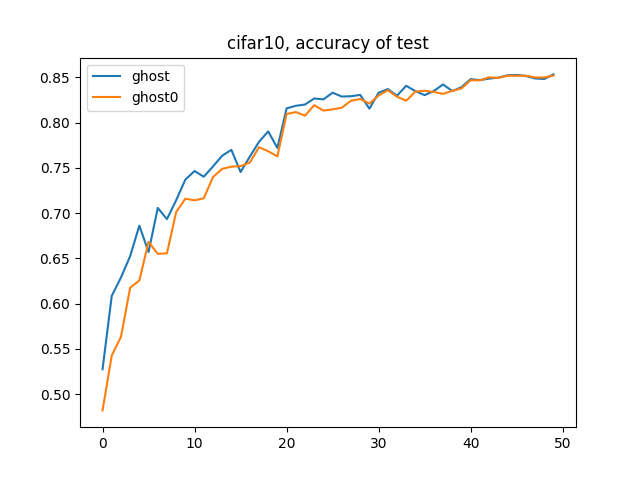
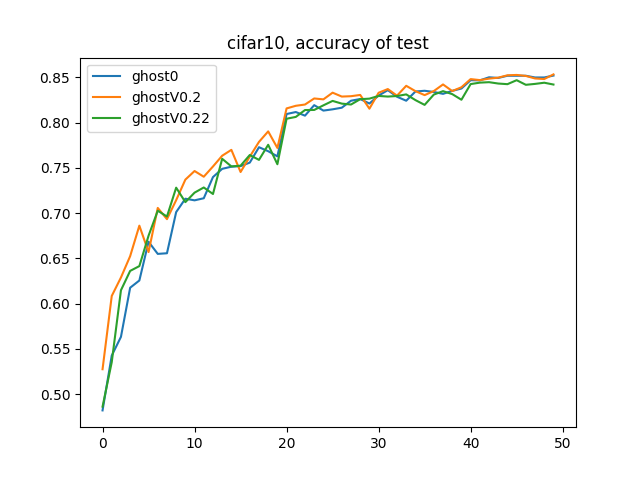
ghostV0.22

Changed region(s): [[0.1562, 0.1562, 0.875, 0.8438], [0.125, 0.1875, 0.3438, 0.2812]]

diff --git a/ghost.py b/ghost.py
@@ -106,12 +106,12 @@ class GhostModule(nn.Module):
         return out[:,:self.oup,:,:]
 
 
-class GhostBottleneck(nn.Module):
+class GhostBottleneckV02(nn.Module):
     """ Ghost bottleneck w/ optional SE"""
 
     def __init__(self, in_chs, mid_chs, out_chs, group=4, dw_kernel_size=3,
                  stride=1, padding=1, act_layer=nn.ReLU, se_ratio=0.):
-        super(GhostBottleneck, self).__init__()
+        super(GhostBottleneckV02, self).__init__()
         has_se = se_ratio is not None and se_ratio > 0.
         self.stride = stride
         self.group = group
@@ -136,6 +136,7 @@ class GhostBottleneck(nn.Module):
         else:
             self.se = None
 
+
         # Point-wise linear projection
         self.ghost2 = GhostModule(mid_chs, out_chs, padding=1, relu=False)
 
@@ -144,8 +145,6 @@ class GhostBottleneck(nn.Module):
             self.shortcut = nn.Sequential()
         else:
             self.shortcut = nn.Sequential(
-                # nn.Conv2d(in_chs, in_chs, dw_kernel_size, stride=stride,
-                #           padding=(dw_kernel_size - 1) // 2, groups=in_chs, bias=False),
                 nn.Conv2d(in_chs, in_chs, dw_kernel_size, stride=stride,
                                        padding=padding,
                                        groups=self.group, bias=False),
@@ -168,9 +167,55 @@ class GhostBottleneck(nn.Module):
         if self.se is not None:
             x = self.se(x)
         # 2nd ghost bottleneck
+        # x = channel_shuffle(x, self.group)
         x = self.ghost2(x)
         x += self.shortcut(residual)
         return x
+
+class GhostModuleV022(GhostModule):
+    def __init__(self, inp, oup, kernel_size=3, ratio=2, dw_size=3, stride=1, padding=1, relu=True):
+        super().__init__(inp, oup, kernel_size, ratio, dw_size, stride, padding, relu)
+        self.oup = oup
+        init_channels = math.ceil(oup / ratio)
+        new_channels = init_channels*(ratio-1)
+        self.cheap_operation = nn.Sequential(
+            nn.Conv2d(init_channels, new_channels, 1, 1, padding=0, groups=init_channels, bias=False),
+            nn.BatchNorm2d(new_channels),
+            nn.ReLU(inplace=True) if relu else nn.Sequential(),
+        )
+
+
+class GhostBottleneckV022(GhostBottleneckV02):
+    def __init__(self, in_chs, mid_chs, out_chs, group=4, dw_kernel_size=3,
+                 stride=1, padding=1, act_layer=nn.ReLU, se_ratio=0.):
+        super(GhostBottleneckV022, self).__init__(in_chs, mid_chs, out_chs, group, dw_kernel_size,
+                 stride, padding, act_layer, se_ratio)
+
+        self.conv1 = nn.Conv2d(in_chs, in_chs, dw_kernel_size, stride=1, \
+                               padding=1, \
+                               groups=self.group, bias=False)
+        self.se = SqueezeExcite(mid_chs, se_ratio=se_ratio)
+        self.ghost1 = GhostModuleV022(in_chs, mid_chs, padding=padding, relu=True)
+        self.ghost2 = GhostModuleV022(mid_chs, out_chs, padding=1, relu=True)
+
+    def forward(self, x):
+        x = channel_shuffle(x, self.group)
+        residual = x
+        # 1st ghost bottleneck
+        x = self.conv1(x)
+        x = self.ghost1(x)
+        # Depth-wise convolution
+        # Squeeze-and-excitation
+        # x = self.se(x)
+        # 2nd ghost bottleneck
+        # x = channel_shuffle(x, self.group)
+        x = self.ghost2(x)
+        x += self.shortcut(residual)
+        return x
+
+
+
+
 
 '''
 class GhostNet(nn.Module):

diff --git a/ghostNet_cifar10.py b/ghostNet_cifar10.py
@@ -55,7 +55,7 @@ class GhostNet(nn.Module):
             for k, exp_size, c, se_ratio, s, g, p in cfg:
                 output_channel = c
                 hidden_channel = exp_size
-                layers.append(GhostBottleneck(input_channel, hidden_channel, output_channel, group=g, dw_kernel_size=k,
+                layers.append(GhostBottleneckV022(input_channel, hidden_channel, output_channel, group=g, dw_kernel_size=k,
                                               stride=s, padding=p, se_ratio=se_ratio))
                 input_channel = output_channel
             stages.append(nn.Sequential(*layers))
@@ -80,9 +80,50 @@ class GhostNet(nn.Module):
         x = self.classifier(x)
         return x
 
+
+class GhostNetV022(GhostNet):
+    def __init__(self):
+        super().__init__()
+        input_channel = 8
+        self.cfgs = [
+            [[3, 24, 16, 0, 1, 4, 0]],
+            [[3, 48, 32, 0.25, 1, 4, 0]],
+            [[3, 64, 48, 0, 1, 4, 0]],
+            [[3, 72, 64, 0.25, 1, 4, 0]],
+            [[3, 120, 72, 0, 1, 4, 0]],
+            [[3, 240, 80, 0, 1, 8, 0]],
+            [[3, 240, 80, 0.25, 1, 8, 1],
+             [3, 240, 80, 0, 1, 8, 1],
+             [3, 240, 112, 0, 1, 8, 0]],
+            [[3, 480, 160, 0.25, 1, 16, 0],
+             [3, 480, 160, 0, 1, 16, 1],
+             [3, 480, 160, 0, 1, 16, 1]]
+        ]
+        stages = []
+        for cfg in self.cfgs:
+            layers = []
+            for k, exp_size, c, se_ratio, s, g, p in cfg:
+                output_channel = c
+                hidden_channel = exp_size
+                layers.append(GhostBottleneckV022(input_channel, hidden_channel, output_channel, group=g, dw_kernel_size=k,
+                                                  stride=s, padding=p, se_ratio=se_ratio))
+                input_channel = output_channel
+            stages.append(nn.Sequential(*layers))
+        stages.append(nn.Sequential(LastConvLayer(input_channel, 480, 1, groups=16)))
+        self.blocks = nn.Sequential(*stages)
+
+        # Last Several Layers
+        self.global_pool = nn.AdaptiveAvgPool2d((4, 4))
+        # self.global_pool = nn.AvgPool2d(8)
+        # self.conv_last = nn.Conv2d(480, 640, 1, 1, 0, bias=True)
+        # self.act_last = nn.ReLU(inplace=True)
+        self.classifier = nn.Linear(7680, 10)
+
+
+
 if __name__ == '__main__':
     device = torch.device('cuda' if torch.cuda.is_available() else 'cpu')
-    model = GhostNet().to(device)
+    model = GhostNetV022().to(device)
     summary(model, (3, 28, 28))
 
 

diff --git a/README.md b/README.md
@@ -27,10 +27,10 @@ Inp ---> GM1 --> GM2 --------------------------+--> Out
 ```
 新结构:
 ```
-Inp ---> CS --> GC --> GM1 --> GM2 ----------+--> Out
-     |                                       |
-     |shortcut                               |
-     |-----> GC --> BN --> conv1x1 --> BN ---|
+Inp --> CS ---> GC --> GM1 --> GM2 -----------------+--> Out
+            |                                       |
+            |shortcut                               |
+            |-----> GC --> BN --> conv1x1 --> BN ---|
      
 Inp: input, CS: channel shuffle, GC: group conv, GM: GhostModule
 ```
@@ -54,8 +54,16 @@ layers = nn.Sequential(*layers)
 
 Github Commit: ghostV0.2
 
+实现: 
+
+```
+ghost.py
+  |- GhostModule
+  |- GhostBottleneckV02
+```
+
 改动: 
- - 原先的结构默认几乎所有的padding=1, 通过stride=2做downsampling. 
+ - **增加padding**. 原先的结构默认几乎所有的padding=1, 通过stride=2做downsampling. 
 
    ```
    GhostBottleneck(....)
@@ -116,17 +124,66 @@ Github Commit: ghostV0.2
   layers.append(GhostBottleneck(blockInfo2))
   layers = nn.Sequential(*layers)
   ```
+  
 - `ghostNet`在`cifar10`中的使用
 
   - `python ghostNet_cifar10.py`即可打印结构, `ghostNet0_cifar10.py`为原ghost结构(记为ghost0)
+- `sh run.sh`
+  
 
-  - `sh run.sh`
+
+
+### Version 0.22
+时间: 2020.11.13 14:56
+
+Github Commit: ghostV0.22
+
+实现: 
+
+```
+ghost.py
+  |- GhostModuleV022
+  |- GhostBottleneckV022
+```
+
+改动: 
+```
+GhostBottleneck(...., padding=padding, group=group)
+  |-- Conv2d: padding=1, 3x3, group=group
+  |-- GhostModule: padding=padding
+           |-- Conv2d: padding=padding, 3x3, 
+           |-- ....
+           |-- Conv2d: padding=0, 1x1, group=all
+           |-- ....
+  |-- GhostModule: padding=1
+           |-- Conv2d: padding=1, 3x3, 
+           |-- ....
+           |-- Conv2d: padding=0, 1x1, group=all
+           |-- ....
+  |-- Shortcut: 
+           |-- Conv2d: padding=padding, 3x3, group=group
+           |-- ....
+           |-- Conv2d: padding=0, 1x1
+```
+
+ - 创建可用于`cifar-10`训练的ghostNet, 位于`./ghostNet_cifar10.py`
+
+ - 新增原ghost的模型`ghost0.py`, `ghostNet0_cifar10.py`, `ghost0_train.py`
+
+#### Usage
+
+- 与`Version0.2`一样
+
+
+
+## Version Comparison
 
   - Result: 
 
-    |        | Trainable params | Params size (MB) | Accuracy | s/iter (batchSize=16) |
-    | ------ | ---------------- | ---------------- | -------- | --------------------- |
-    | ghost0 | 3,271,594        | 12.48            | 85.20    | 0.0510                |
-    | ghost  | 3,102,970        | 11.84            | 85.33    | 0.0638                |
-
+    |            | Trainable params | Params size (MB) | Accuracy | s/iter (batchSize=16) |
+    | ---------- | ---------------- | ---------------- | -------- | --------------------- |
+    | ghost0     | 3,271,594        | 12.48            | 85.20    | 0.0510                |
+    | ghostV0.2  | 3,102,970        | 11.84            | 85.33    | 0.0638                |
+  | ghostV0.22 | 3,087,902        | 11.78            | 84.69    | 0.0594                |
+    
     ![ghost_cifar_acc](figure/ghost_cifar_acc.png)
